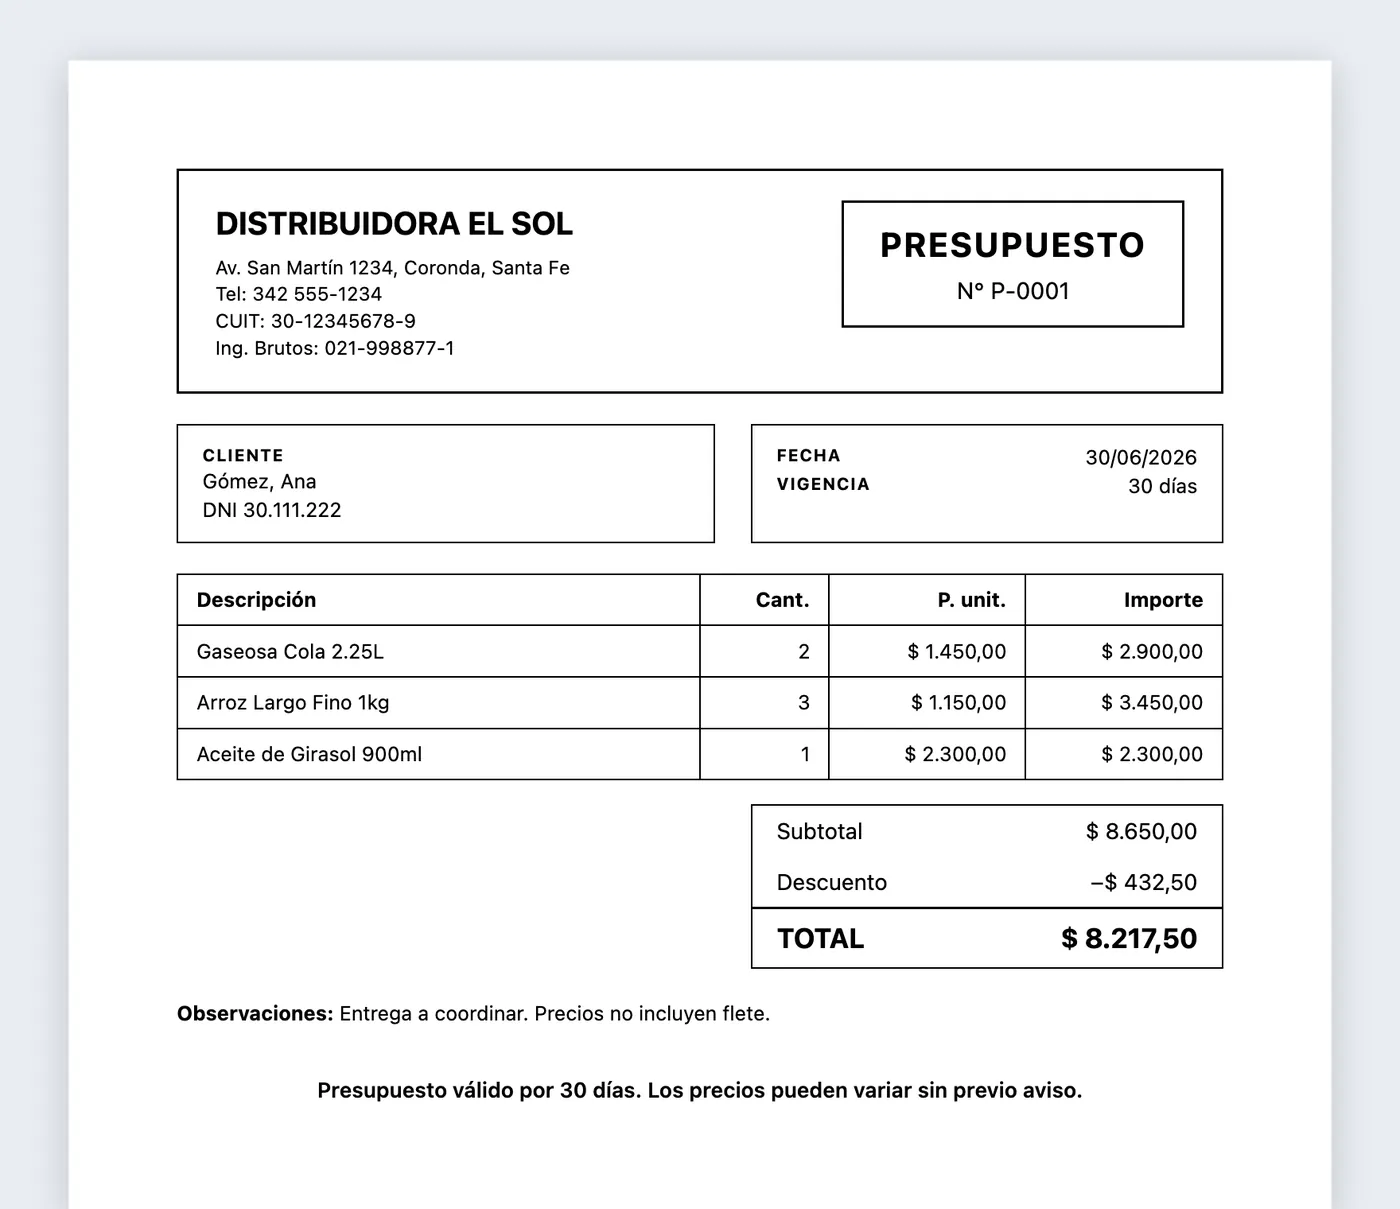
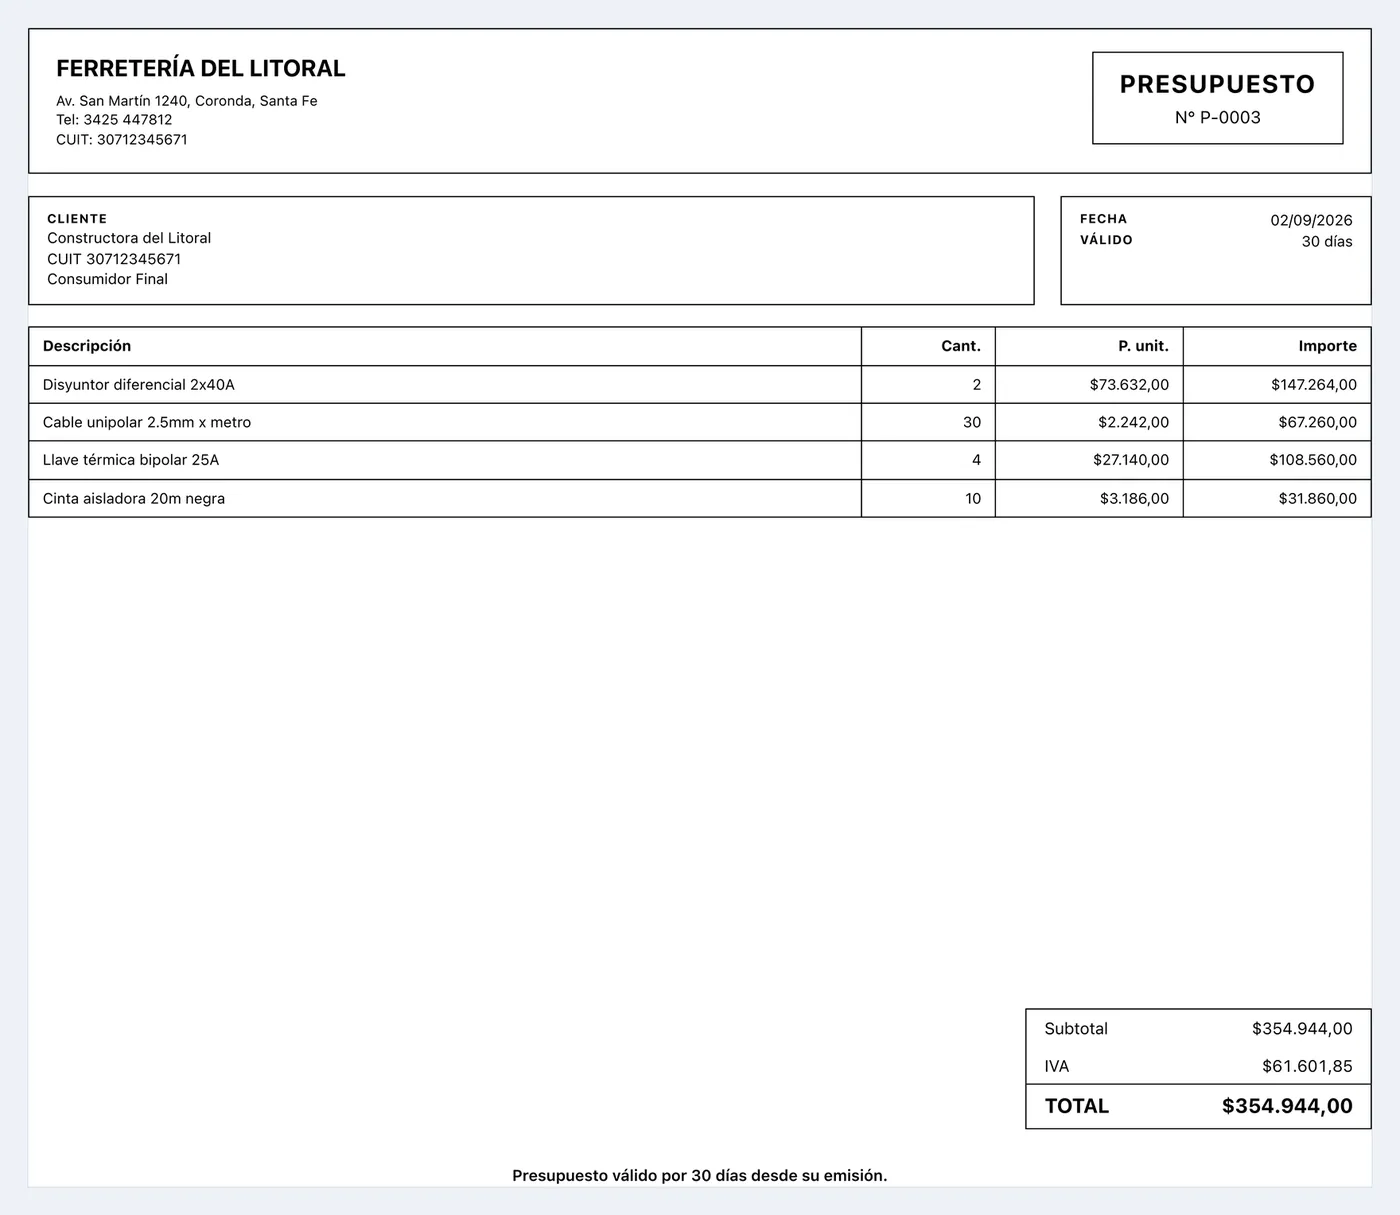
feat(landing): hoja A4 del showcase regenerada desde la demo ferretería
La captura del presupuesto A4 mostraba la base vieja (gaseosa/arroz/aceite,
'Distribuidora El Sol'). Se regeneró desde la app REAL: presupuesto P-0003 de
Ferretería del Litoral a Constructora del Litoral (disyuntor, cable, llave
térmica, cinta — total $354.944), creado por el RPC LAN de la app corriendo
y capturado del FormalDocA4 real vía Chrome headless con media print emulada
(el diseño exacto que imprime la app, no una imitación). Compuesta al formato
de la imagen anterior (1760px, hoja sobre fondo claro). Original archivada en
src-shots/_old/. Con esto no queda NINGUNA imagen de la base vieja en la
landing.

diff --git a/marketing/landing/artifact3.html b/marketing/landing/artifact3.html
@@ -441,7 +441,7 @@ h1.big{font-size:clamp(36px,4.6vw,54px);margin:20px 0 0;} h1.big .hl{color:var(-
    <p>PDF A4 con tu encabezado, tu CUIT y la vigencia. El cliente lo aprueba y lo convertís en venta sin volver a cargar los productos.</p>
    <span class="sc-solve">Sin presupuestos armados en Word</span>
    <ul class="sc-notes"><li><b>Membrete y CUIT</b> — impresos automáticamente en el PDF</li><li><b>Vigencia 30 días</b> — quedás cubierto ante un reprecio</li><li><b>Un clic</b> — presupuesto aprobado → venta registrada</li></ul></div>
-  <div class="si"><figure class="a4sheet"><img loading="lazy" src="assets/presupuesto-1400q80.webp" width='1400' height='1209' alt="Presupuesto A4 de StockFlow"/></figure></div>
+  <div class="si"><figure class="a4sheet"><img loading="lazy" src="assets/presupuesto-1400q80.webp" width='1400' height='1215' alt="Presupuesto A4 de StockFlow"/></figure></div>
  </div>
  <div class='show sc rv' id='sc-ganas'><div class='st'><span class='sc-k'>Rentabilidad</span><h3>No es cuánto vendés. Es cuánto te queda.</h3><p>Margen bruto, ticket promedio y tendencia, filtrados por fecha y medio de pago. Identificás qué productos son rentables y cuáles no.</p><span class='sc-solve'>Sin vender a ciegas</span><ul class='sc-notes'><li><b>Margen bruto</b> — cuánto te queda, no solo cuánto vendés</li><li><b>Ticket promedio</b> — cuánto compra cada cliente, en promedio</li><li><b>Por período y medio de pago</b> — el análisis que necesites</li></ul></div><div class='si'><figure class='cwin'><div class='gbar'><span class='gdz'><i></i><i></i><i></i></span><span class='gbt'>StockFlow — Estadísticas</span></div><img loading='lazy' src='assets/estadisticas-1400q80.webp' width='1400' height='916' alt='Estadísticas de StockFlow con ventas del mes, ticket promedio y margen bruto'/></figure></div></div>
  </div>

diff --git a/marketing/landing/index3.html b/marketing/landing/index3.html
@@ -441,7 +441,7 @@ h1.big{font-size:clamp(36px,4.6vw,54px);margin:20px 0 0;} h1.big .hl{color:var(-
    <p>PDF A4 con tu encabezado, tu CUIT y la vigencia. El cliente lo aprueba y lo convertís en venta sin volver a cargar los productos.</p>
    <span class="sc-solve">Sin presupuestos armados en Word</span>
    <ul class="sc-notes"><li><b>Membrete y CUIT</b> — impresos automáticamente en el PDF</li><li><b>Vigencia 30 días</b> — quedás cubierto ante un reprecio</li><li><b>Un clic</b> — presupuesto aprobado → venta registrada</li></ul></div>
-  <div class="si"><figure class="a4sheet"><img loading="lazy" src="assets/presupuesto-1400q80.webp" width='1400' height='1209' alt="Presupuesto A4 de StockFlow"/></figure></div>
+  <div class="si"><figure class="a4sheet"><img loading="lazy" src="assets/presupuesto-1400q80.webp" width='1400' height='1215' alt="Presupuesto A4 de StockFlow"/></figure></div>
  </div>
  <div class='show sc rv' id='sc-ganas'><div class='st'><span class='sc-k'>Rentabilidad</span><h3>No es cuánto vendés. Es cuánto te queda.</h3><p>Margen bruto, ticket promedio y tendencia, filtrados por fecha y medio de pago. Identificás qué productos son rentables y cuáles no.</p><span class='sc-solve'>Sin vender a ciegas</span><ul class='sc-notes'><li><b>Margen bruto</b> — cuánto te queda, no solo cuánto vendés</li><li><b>Ticket promedio</b> — cuánto compra cada cliente, en promedio</li><li><b>Por período y medio de pago</b> — el análisis que necesites</li></ul></div><div class='si'><figure class='cwin'><div class='gbar'><span class='gdz'><i></i><i></i><i></i></span><span class='gbt'>StockFlow — Estadísticas</span></div><img loading='lazy' src='assets/estadisticas-1400q80.webp' width='1400' height='916' alt='Estadísticas de StockFlow con ventas del mes, ticket promedio y margen bruto'/></figure></div></div>
  </div>
